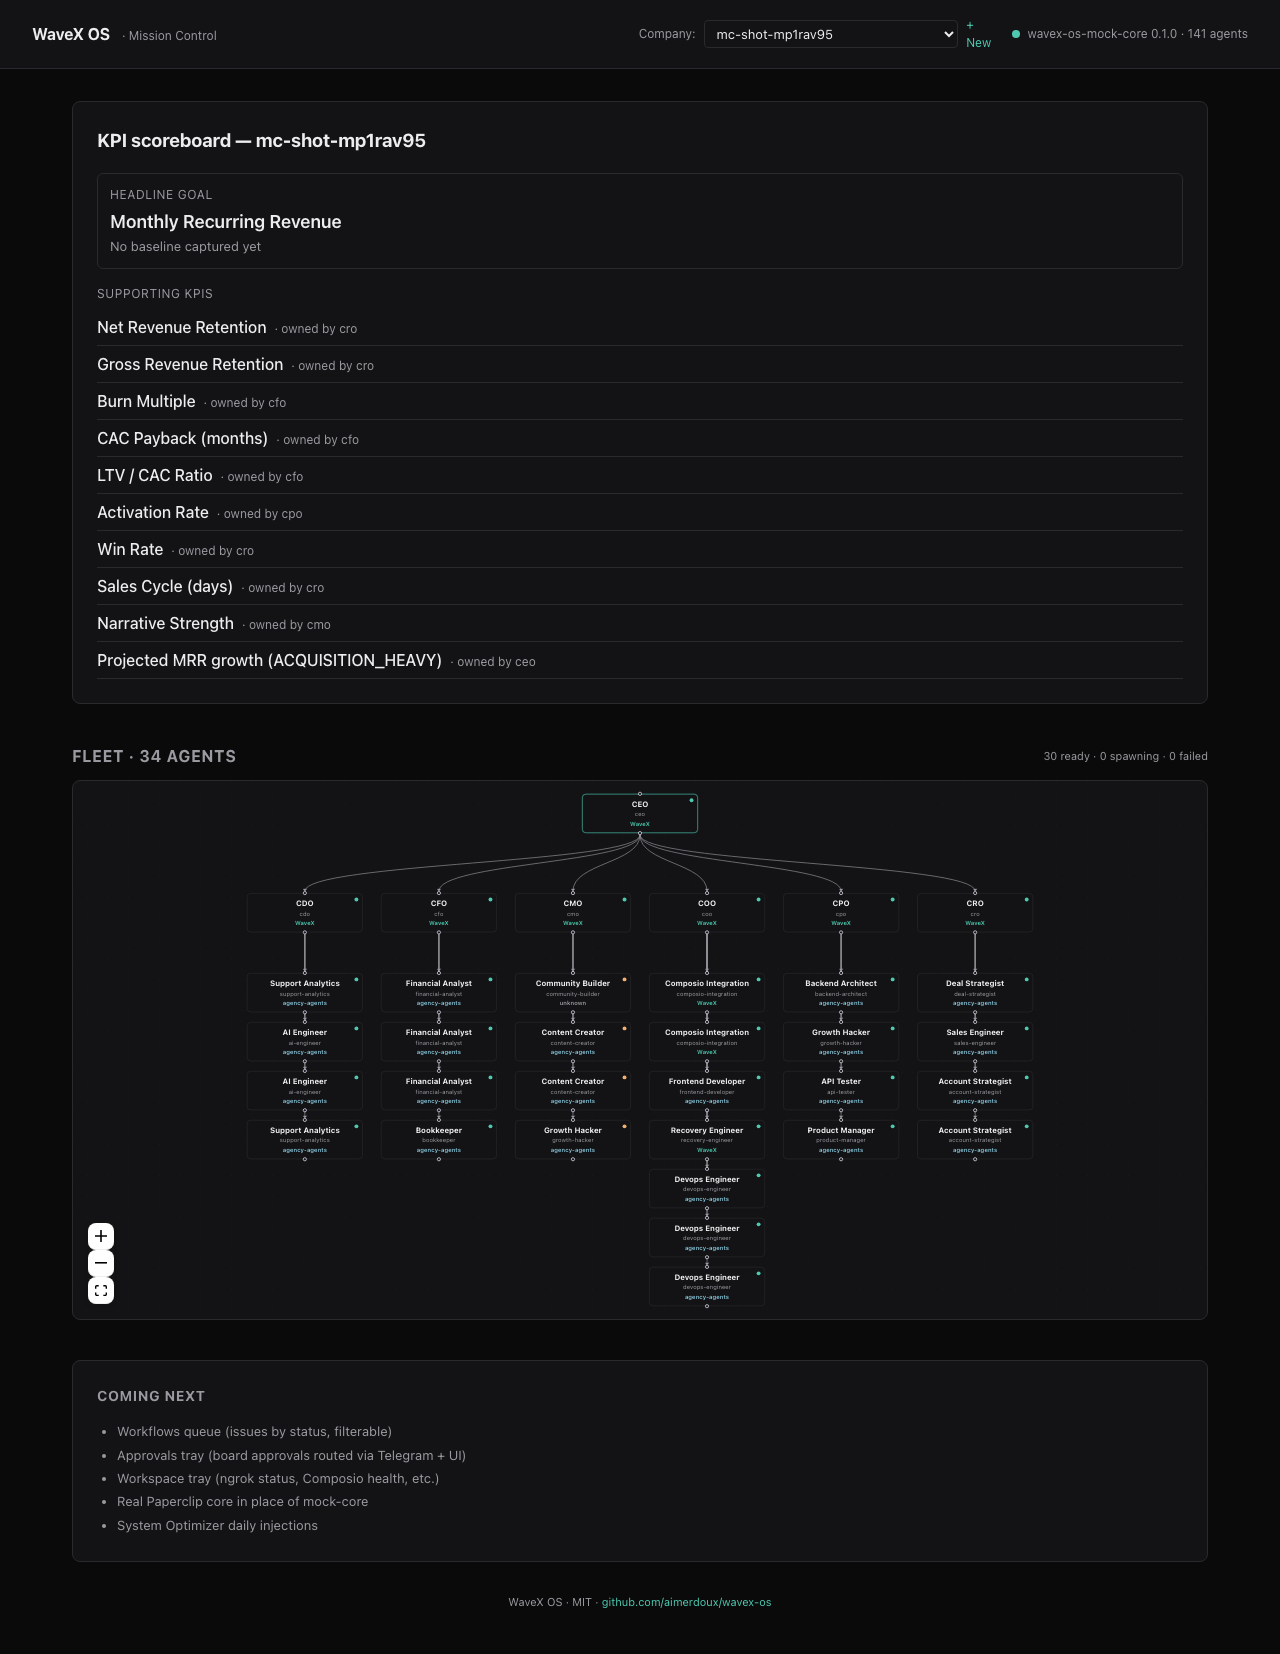
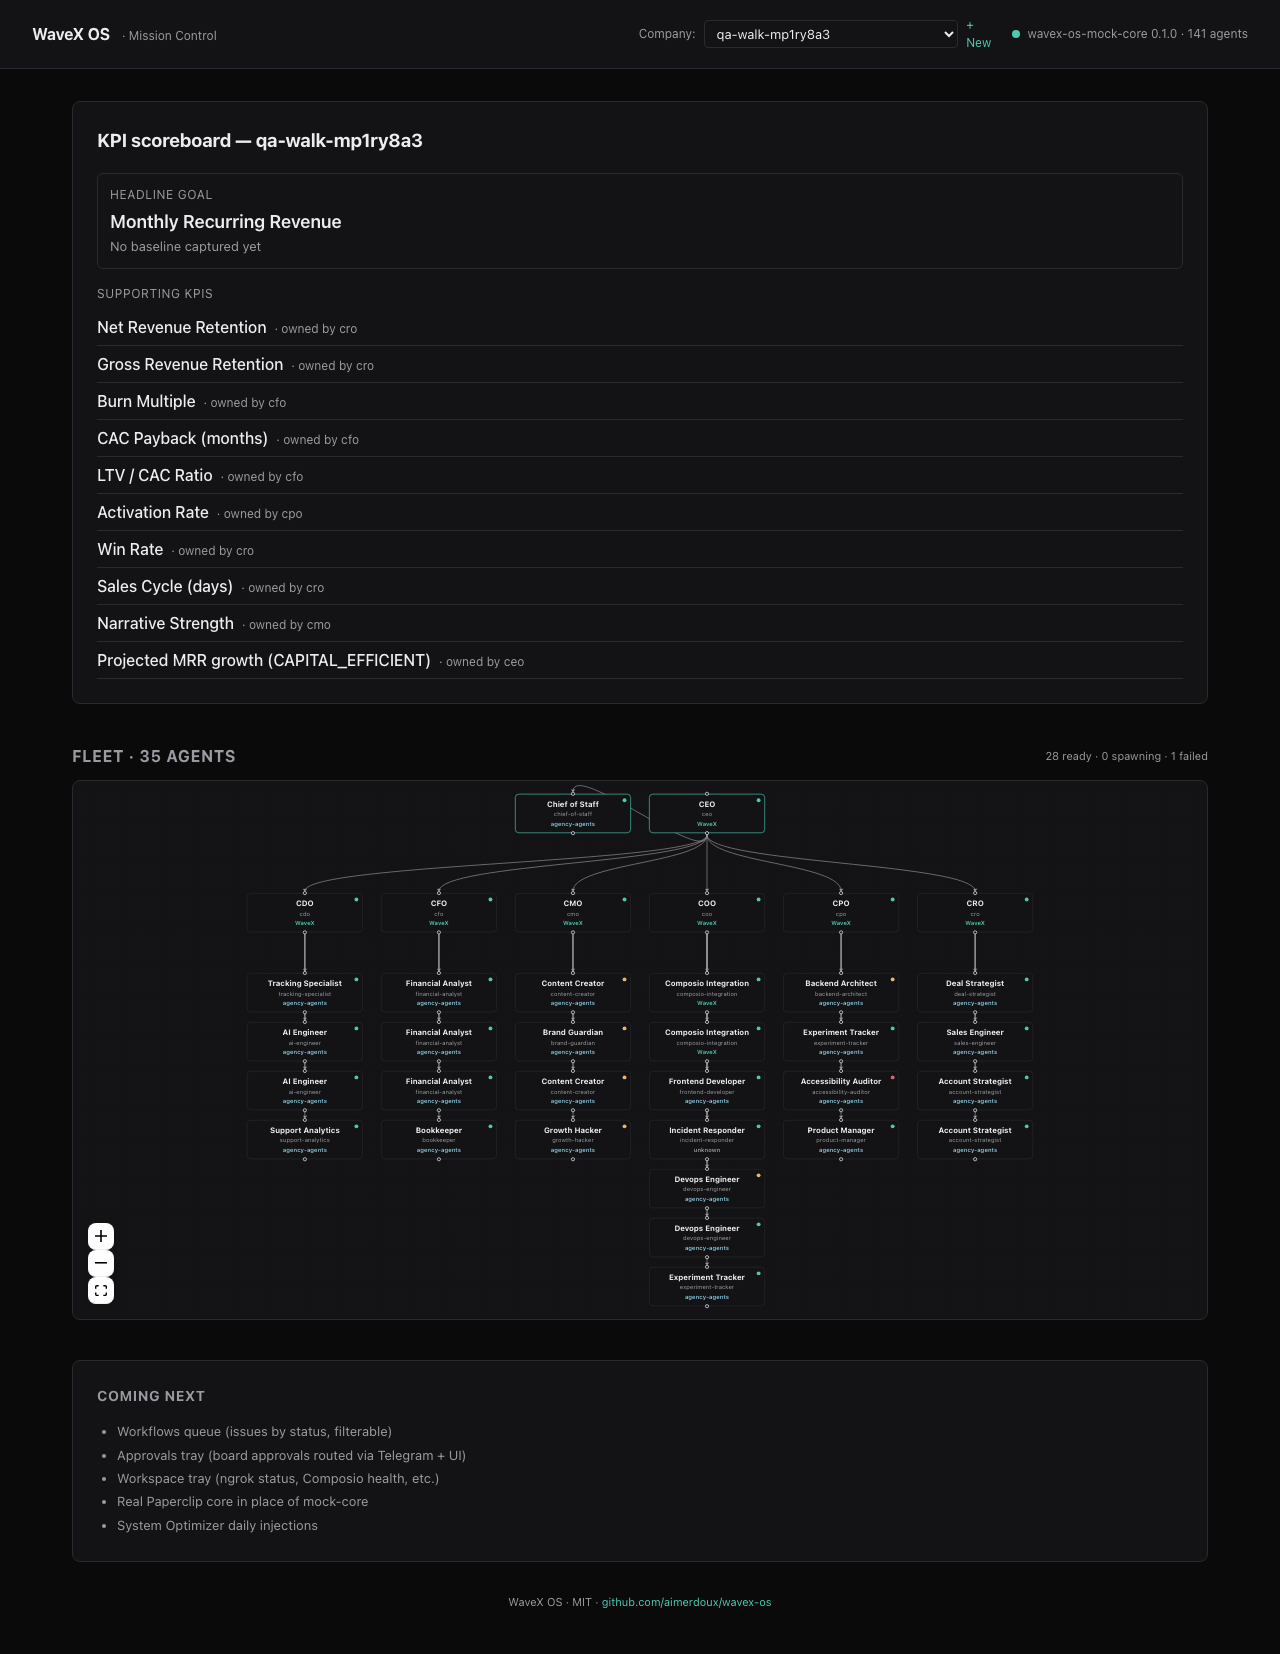
docs: add "summary before inception" + refresh Mission Control screenshots
Captured during the fresh-clone QA walk against the current main (not the
pre-rebase code my first round of screenshots was taken from):

- docs/images/wizard/12b-finalize-after-sign.png — NEW. Post-sign view of
  the Finalize screen showing the imprint review + signed manifest
  summary. The "Activate fleet →" button enables once the signature
  lands. This is the user's last inspection point before agents go live
  on Paperclip.
- docs/images/wizard/13-mission-control.png — REPLACED. Captured against
  the latest UI (which includes the operator-typed industry/business-
  model Pillar 1 fields, the full 35-agent handoff scope, etc.).

README + docs/wizard.html updated to embed the new "Summary before
inception" step between Finalize and Mission Control.

Pre-push security audit clean:
- No API keys, OAuth tokens, or .env values in tracked tree
- PNG metadata has no embedded author/path/software fields
- Agent templates correctly read TELEGRAM_BOT_TOKEN from runtime env,
  never hardcoded
- QA walk pillar data is fully synthetic (org_name=qa-walk-mp1ry8a3,
  raw_input="no product yet", all values pre_product placeholders)
- Pre-existing PII in git history (commit 2d54236e, scrubbed in
  b9c0d8f9) noted but not addressed — would require filter-repo +
  force-push, deferred pending explicit user approval

diff --git a/docs/wizard.html b/docs/wizard.html
@@ -290,12 +290,17 @@
     {
       title: "Finalize — Imprint + Monte Carlo",
       img: "images/wizard/12-finalize.png",
-      caption: "Simulator projects KPI movement against your goal over N cycles. The signed company manifest is written to disk and ready to activate."
+      caption: "Click \"Finalize + sign\" — the simulator projects KPI movement against your goal over N cycles, then signs the company manifest and writes everything under ~/.wavex-os/instances/."
     },
     {
-      title: "Mission Control",
+      title: "Summary before inception",
+      img: "images/wizard/12b-finalize-after-sign.png",
+      caption: "Post-sign view: imprint review + signed manifest summary. The \"Activate fleet\" button enables once the signature lands. Last inspection point before agents go live on Paperclip."
+    },
+    {
+      title: "Mission Control — Paperclip live",
       img: "images/wizard/13-mission-control.png",
-      caption: "KPI scoreboard + live fleet graph (reactflow, polls every 8s). Click any agent to see runs, comments, budget. This is what you live in after activate."
+      caption: "Activate hands the 35-agent fleet off to the running Paperclip instance and lands you here: KPI scoreboard + live fleet graph (reactflow, polls every 8s). Click any agent to see runs, comments, budget."
     }
   ];
 

diff --git a/README.md b/README.md
@@ -33,8 +33,9 @@ The screenshots below come straight out of the e2e suite — every one is the re
 | **Credential Concierge.** Either paste OAuth tokens now, or click Skip per-connector. Vault encrypts everything before disk. | ![Concierge](docs/images/wizard/09-credential-concierge.png) |
 | **Phase 3 — Swarm.** Reactflow org chart of your generated roster. Drag, swap templates per slot, add specialist agents under any chief. | ![Phase 3](docs/images/wizard/10-phase-3-swarm.png) |
 | **Phase 4 — Workflow.** Each agent's initial workload + bundle allocation. | ![Phase 4](docs/images/wizard/11-phase-4-workflow.png) |
-| **Finalize — Imprint + Monte Carlo.** Simulator projects KPI movement against your goal over N cycles. Signed company manifest written to disk. | ![Finalize](docs/images/wizard/12-finalize.png) |
-| **Mission Control.** KPI scoreboard + live fleet graph (reactflow, polls every 8s). Click any agent to see runs, comments, budget. | ![Mission Control](docs/images/wizard/13-mission-control.png) |
+| **Finalize — Imprint + Monte Carlo.** Click *Finalize + sign*: the simulator projects KPI movement against your goal over N cycles. Signed company manifest written to disk. | ![Finalize](docs/images/wizard/12-finalize.png) |
+| **Summary before inception.** Imprint review + signed manifest summary. *Activate fleet →* enables once the signature lands. This is your last chance to inspect before agents go live. | ![Summary](docs/images/wizard/12b-finalize-after-sign.png) |
+| **Mission Control — Paperclip live.** Activate hands the 35-agent fleet off to the running Paperclip instance and lands you here: KPI scoreboard + live reactflow fleet graph that polls every 8s. Click any agent to see runs, comments, budget. | ![Mission Control](docs/images/wizard/13-mission-control.png) |
 
 ---
 